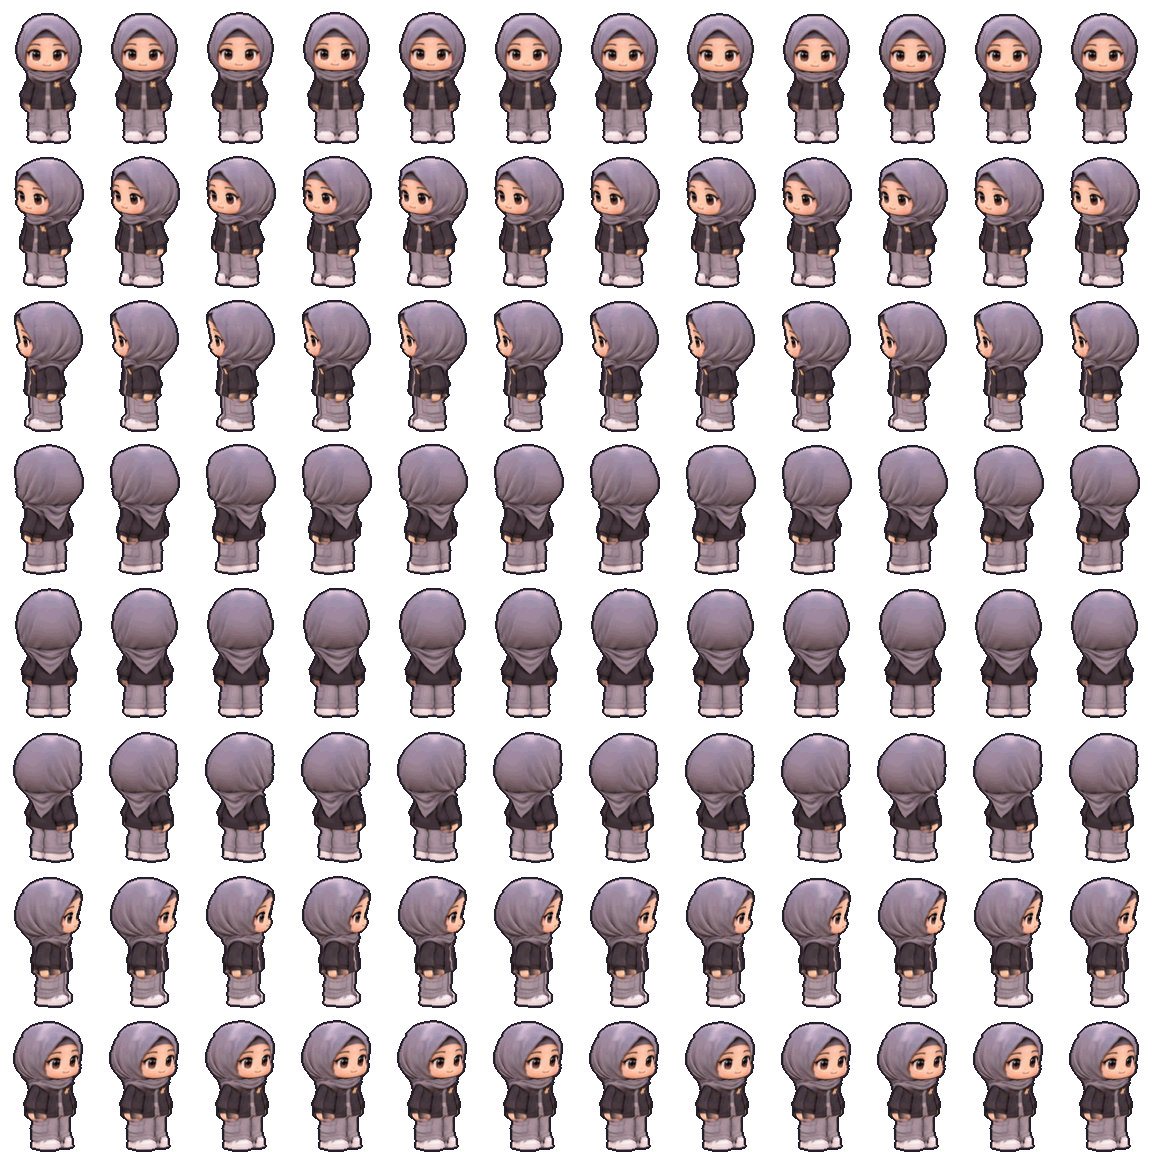
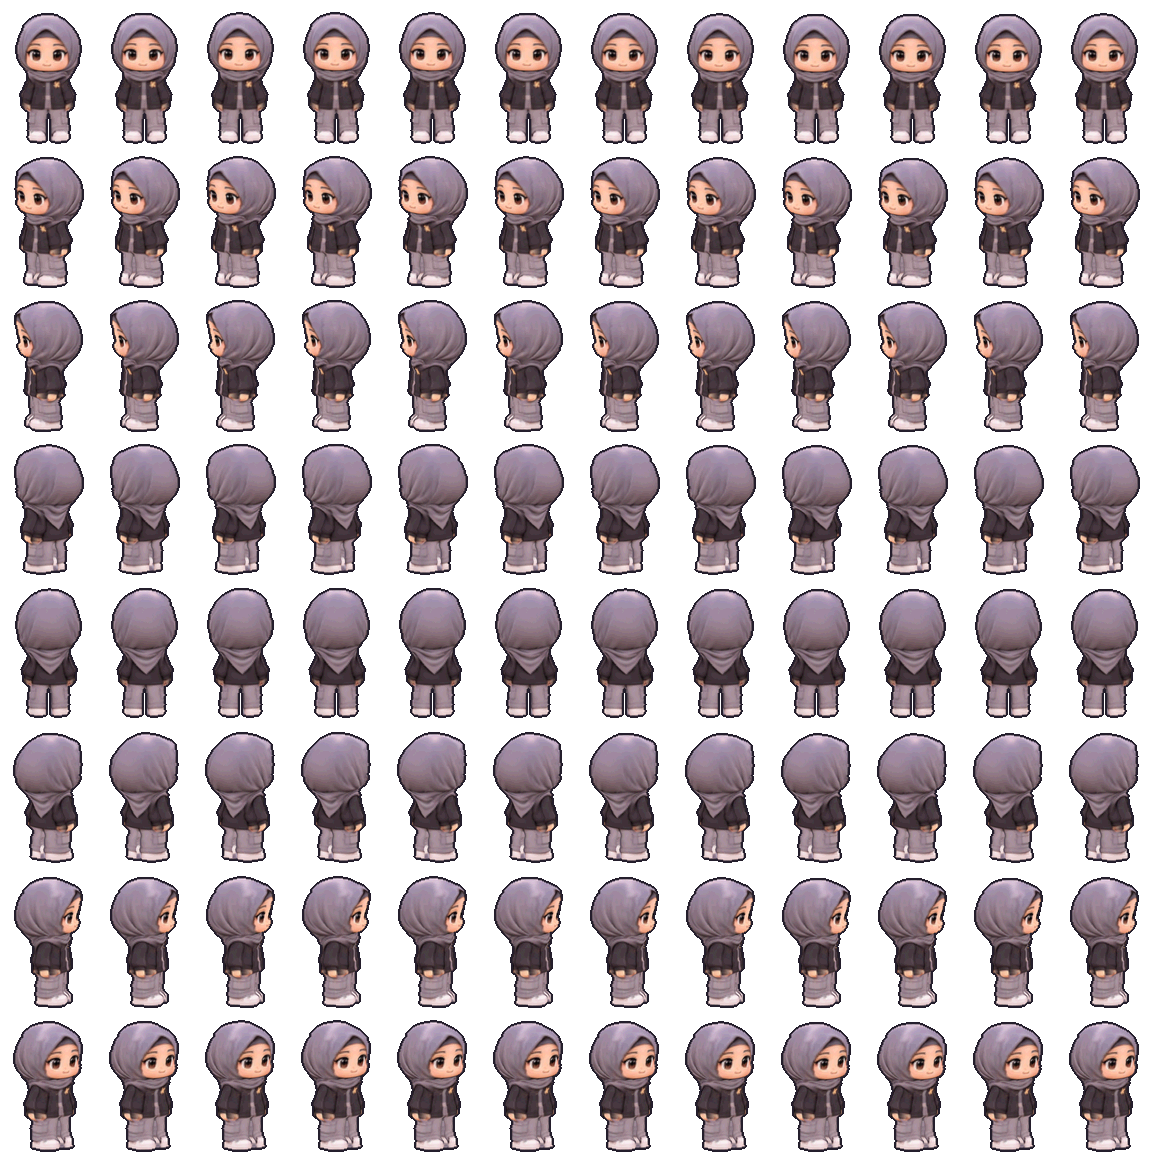
V8.3b: jalan lebih hidup - dua kaki terpisah, lutut menekuk, tangan berayun
- walk_rig.gdshader: kaki dirapatkan ke poros masing-masing + selaput paha dibuang (dua kaki
  terlihat), lutut kaki belakang menekuk 38°, hanya lengan luar (|x| > 0.305) yang berayun 38°.
- Sheet idle/jalan/pose dirender ulang; semua frame di dalam batas. Tes 58/58.

Claude-Session: https://claude.ai/code/session_01JPHCmFAgos43C882L1wxNa

diff --git a/docs/CHARACTERS.md b/docs/CHARACTERS.md
@@ -27,9 +27,14 @@ Baris arah (sama dengan `Actor.facing8`): 0 bawah, 1 kiri-bawah, 2 kiri, 3 kiri-
 
 ## Animasi tanpa rig
 Model saat ini tidak punya rig, jadi gerak dibuat oleh shader `tests/charrender/walk_rig.gdshader`:
-kaki berayun dari pinggul, lengan sedikit berayun, badan bernapas, membungkuk, dan duduk (lutut
-ditekuk). Batas yang ditemukan saat pengujian:
-- Lengan menyatu dengan badan pada model ini, jadi gestur lengan dibatasi ±22°. Melambai, bersorak,
+- kaki: kedua kaki dirapatkan ke porosnya masing-masing dan "selaput" geometri di antara paha
+  dibuang, jadi terlihat dua kaki; berayun 26° dari pinggul; lutut kaki belakang menekuk 38°;
+- lengan: hanya bagian terluar (lengan + tangan, |x| > 0.305) yang berayun 38° berlawanan dengan kaki;
+- badan bernapas, naik sedikit di antara langkah, bisa membungkuk dan duduk (lutut ditekuk).
+
+Batas yang ditemukan saat pengujian:
+- Lengan menyatu dengan badan pada model ini. Ayunan jalan di atas 38° membuat punggung menggembung,
+  dan gestur pose dibatasi ±22°. Melambai, bersorak,
   dan tos tampil sebagai bahasa tubuh kecil, bukan lengan terangkat.
 - Wajah dari samping murni kurang terbaca, jadi arah samping dirender di 72°.
 - Ukuran (`HEIGHT` di `tools/char_sheets.py`): Arland 134 px, Sofia 126 px (@2x), sama dengan sprite lama.

diff --git a/CHANGELOG_V8.md b/CHANGELOG_V8.md
@@ -4,8 +4,9 @@
 - Model Arland & Sofia dari user (`Arland_Sofia_Cuby_3D_V5_Free`) dirender menjadi sprite 8 arah @2x:
   idle (12 frame), jalan (24 frame, kaki melangkah bergantian), dan 16 pose untuk cutscene.
   Alat: `tests/charrender/render_sheets.tscn` + `tools/char_sheets.py`; panduan di `docs/CHARACTERS.md`.
-- Model tanpa rig, jadi gerak dibuat dengan rig prosedural di shader. Gestur lengan dibatasi ±22°
-  karena lengan menyatu dengan badan pada model ini (lihat docs/CHARACTERS.md).
+- Model tanpa rig, jadi gerak dibuat dengan rig prosedural di shader: dua kaki terpisah yang melangkah
+  bergantian, lutut kaki belakang menekuk, tangan berayun 38° berlawanan dengan kaki, badan naik turun.
+  Gestur pose dibatasi ±22° karena lengan menyatu dengan badan pada model ini (docs/CHARACTERS.md).
 - Sprite lama tidak dihapus (dipakai lagi bila file @2x dihapus). GLB sumber tidak ikut APK.
 - Potret dialog masih gambar lama.
 
